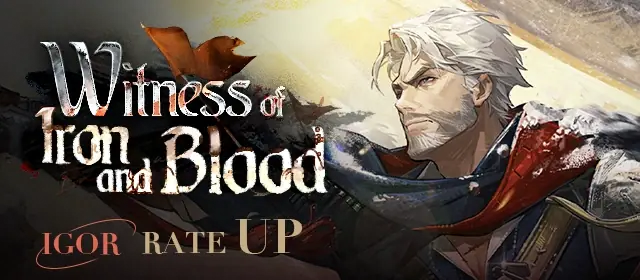
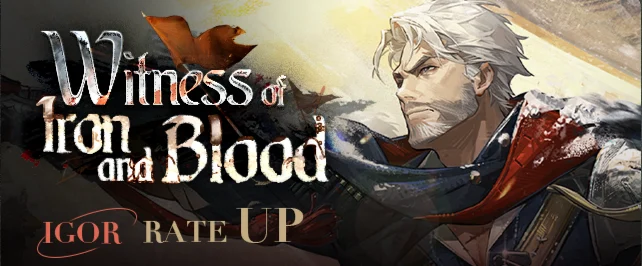
v3.8/2

diff --git a/database.js b/database.js
@@ -1,271 +1,273 @@
 const BANNERS = {
-  "The Future's Foundation": { name: "The Future's Foundation", type: "Character", rateUp6: ["Cornerstone"]},
-  "往昔应我声": { name: "Speak and the Past Will Echo", type: "Character", rateUp6: ["Everecho"]},
-  "殓骨悼词": { name: "The Mourner's Eulogy", type: "Character", rateUp6: ["Charon"]},
-  "贝壳漂流记": { name: "A Shell on the Waves", type: "Character", rateUp6: ["Fatutu"]},
-  "湖的应许": {name: "Promise of the Water", type:"Water"},
+  "The Future's Foundation": { name: "The Future's Foundation", type: "Character", rateUp6: ["Cornerstone"] },
+  "往昔应我声": { name: "Speak and the Past Will Echo", type: "Character", rateUp6: ["Everecho"] },
+  "殓骨悼词": { name: "The Mourner's Eulogy", type: "Character", rateUp6: ["Charon"] },
+  "贝壳漂流记": { name: "A Shell on the Waves", type: "Character", rateUp6: ["Fatutu"] },
+  "湖的应许": { name: "Promise of the Water", type: "Water" },
   "为什么故事集": { name: "The Book of Whys", type: "Character", rateUp6: ["Flutterpage"] },
   "现实破译法": { name: "Deciphering Reality", type: "Character", rateUp6: ["Enigma"] },
   "虹色五线谱": { name: "Playing in Rainbow Clef", type: "Character", rateUp6: ["Barcarola"] },
   "晴日决胜局": { name: "Clash 'n' Slash", type: "Character", rateUp6: ["J"] },
-  "零重力漫游": { name: "Wirewalking in Zero Gravity", type: "Character", rateUp6: ["Kiperina"]},
+  "零重力漫游": { name: "Wirewalking in Zero Gravity", type: "Character", rateUp6: ["Kiperina"] },
   "渡影归真": { name: "Conduit of the Unseen", type: "Character", rateUp6: ["Ramona"] },
   "奇异吸引子": { name: "The Strange Attractor", type: "Character", rateUp6: ["Lorentz Butterfly"] },
   "虚影的实鉴": { name: "Observation into the Mirrors", type: "Character", rateUp6: ["Kakania"] },
-  "鸿羽若有凌云志" : { name: "Soaring Aspirations", type: "Character", rateUp6: ["Cheng Heguang"] },
-  "幕间蒙太奇" : { name: "A Life in Montage", type: "Character", rateUp6: ["Noire"] },
-  "赤心如昼明" : { name: "Moonbeam Guardian", type: "Limited", rateUp6: ["Liang Yue"]},
-  "湖心追述" : { name: "From the Lake's Heart", type: "Water", rateUp6: ["Jiu Niangzi", "Lucy", "Anjo Nala", "Liang Yue"]},
-  "湖的许诺" : { name: "Promise of the Water", type: "Water"},
-  "神话咫尺之处" : { name: "The Myth at Her Fingertips", type: "Limited", rateUp6: ["Nautika"]},
-  "故事的新啼" : { name: "A Newly Hatched Chapter", type: "Limited", rateUp6: ["Rhiannon"]},
-  "石心瓦解时" : { name: "A Beating Heart Beneath the Stone", type: "Character", rateUp6: ["Sentinel"]},
-  "剥茧为名" : { name: "Beneath the Guise of Her Cocoon", type: "Character", rateUp6: ["Ms. Stranger"]},
-  "子夜独角戏" : { name: "The Midnight Flutist", type: "Character", rateUp6: ["Rubuska"]},
-  "剪春注我" : { name: "Her Heart-Cut Spring", type: "Limited", rateUp6: ["Paper Heron"]},
-  "湖的启示" : { name: "Revelation of the Water", type: "Water" },
-  "鳞与石的世纪" : { name: "Serpentine Century", type: "Character", rateUp6: ["Hissabeth"] },
-  "度朔飞琼" : { name: "The Snow of Dushuo", type: "Special" },
-  "湖的企盼" : { name: "Yearning of the Water", type: "Water" },
-  "铁与血的亲证": { name: "Witness of Iron and Blood", type: "Character", rateUp6: ["Igor"]},
-  "午夜摇篮曲" : { name: "Blue Lullaby", type: "Character", rateUp6: ["Tuesday"]},
-  "修缮往日": { name: "From the Ruin of the Past", type: "Character", rateUp6: ["Moldir"]},
-  "誓言无有烬时": { name: "The Oath Unyielding", type: "Character", rateUp6: ["Marsha"]},
-  "银色拟剧论": { name: "Analysis of Metallic Dramaturgy", type: "Collab", rateUp6: ["The Twins"], version: "3.6.5"},
-  "思维动力学":   { name: "Cognitive Dynamics", type: "Character", rateUp6: ["Ulrich"]},
-  "永恒折射角":   { name: "The Brilliance Within", type: "Character", rateUp6: ["Brume"]},
-  "仙子振翅入夜": { name: "The Fairies Shining at Night", type: "Character", rateUp6: ["Tooth Fairy"]},
-  "命运亦需捧场": { name: "On Fate's Cue", type: "Limited", rateUp6: ["Beryl"]},
-  "湖的馈赠":     { name: "Boon of the Water", type: "Water"},
-  "天真与渴盼":   { name: "Longing for Innocence", type: "Limited", rateUp6: ["Anjo Nala"]},
-  "湖的涟漪":     { name: "Ripples on the Water", type: "Water"},
-  "火花雀儿":     { name: "The Chirps of Flame", type: "Character", rateUp6: ["Spathodea"]},
-  "第一滴雨":     { name: "The First Drop of Rain", type: "Regular"},
-  "于湖中央":     { name: "Amongst the Lake", type: "Regular"}
+  "鸿羽若有凌云志": { name: "Soaring Aspirations", type: "Character", rateUp6: ["Cheng Heguang"] },
+  "幕间蒙太奇": { name: "A Life in Montage", type: "Character", rateUp6: ["Noire"] },
+  "赤心如昼明": { name: "Moonbeam Guardian", type: "Limited", rateUp6: ["Liang Yue"] },
+  "湖心追述": { name: "From the Lake's Heart", type: "Water", rateUp6: ["Jiu Niangzi", "Lucy", "Anjo Nala", "Liang Yue"] },
+  "湖的许诺": { name: "Promise of the Water", type: "Water" },
+  "神话咫尺之处": { name: "The Myth at Her Fingertips", type: "Limited", rateUp6: ["Nautika"] },
+  "故事的新啼": { name: "A Newly Hatched Chapter", type: "Limited", rateUp6: ["Rhiannon"] },
+  "石心瓦解时": { name: "A Beating Heart Beneath the Stone", type: "Character", rateUp6: ["Sentinel"] },
+  "剥茧为名": { name: "Beneath the Guise of Her Cocoon", type: "Character", rateUp6: ["Ms. Stranger"] },
+  "子夜独角戏": { name: "The Midnight Flutist", type: "Character", rateUp6: ["Rubuska"] },
+  "剪春注我": { name: "Her Heart-Cut Spring", type: "Limited", rateUp6: ["Paper Heron"] },
+  "湖的启示": { name: "Revelation of the Water", type: "Water" },
+  "鳞与石的世纪": { name: "Serpentine Century", type: "Character", rateUp6: ["Hissabeth"] },
+  "度朔飞琼": { name: "The Snow of Dushuo", type: "Special" },
+  "湖的企盼": { name: "Yearning of the Water", type: "Water" },
+  "铁与血的亲证": { name: "Witness of Iron and Blood", type: "Character", rateUp6: ["Igor"] },
+  "午夜摇篮曲": { name: "Blue Lullaby", type: "Character", rateUp6: ["Tuesday"] },
+  "修缮往日": { name: "From the Ruin of the Past", type: "Character", rateUp6: ["Moldir"] },
+  "誓言无有烬时": { name: "The Oath Unyielding", type: "Character", rateUp6: ["Marsha"] },
+  "银色拟剧论": { name: "Analysis of Metallic Dramaturgy", type: "Collab", rateUp6: ["The Twins"], version: "3.6.5" },
+  "思维动力学": { name: "Cognitive Dynamics", type: "Character", rateUp6: ["Ulrich"] },
+  "永恒折射角": { name: "The Brilliance Within", type: "Character", rateUp6: ["Brume"] },
+  "仙子振翅入夜": { name: "The Fairies Shining at Night", type: "Character", rateUp6: ["Tooth Fairy"] },
+  "命运亦需捧场": { name: "On Fate's Cue", type: "Limited", rateUp6: ["Beryl"] },
+  "湖的馈赠": { name: "Boon of the Water", type: "Water" },
+  "天真与渴盼": { name: "Longing for Innocence", type: "Limited", rateUp6: ["Anjo Nala"] },
+  "湖的涟漪": { name: "Ripples on the Water", type: "Water" },
+  "火花雀儿": { name: "The Chirps of Flame", type: "Character", rateUp6: ["Spathodea"] },
+  "第一滴雨": { name: "The First Drop of Rain", type: "Regular" },
+  "于湖中央": { name: "Amongst the Lake", type: "Regular" }
 };
 
 const ACTIVE_BANNERS = [
-    {
+  {
+    key:      "铁与血的亲证",
+    startUTC: "2026-10-06T10:00:00Z",
+    endUTC:   "2026-10-20T09:59:00Z",
+    image:    "static/banners/Witness_of_Iron_and_Blood.webp",
+    rateUp:   ["Igor", "Mr. Duncan", "Click"]
+  },
+  {
     key:      "往昔应我声",
     startUTC: "2026-09-24T10:00:00Z",
     endUTC:   "2026-10-15T09:59:00Z",
     image:    "static/banners/Speak_and_the_Past_Will_Echo.webp",
-    rateUp:  ["Everecho", "Bkornblume", "Dikke"]
+    rateUp:   ["Everecho", "Bkornblume", "Dikke"]
   },
-    {
+  {
     key:      "渡影归真",
     startUTC: "2026-09-22T10:00:00Z",
     endUTC:   "2026-10-06T09:59:00Z",
     image:    "static/banners/Conduit_of_the_Unseen.webp",
-    rateUp:  ["Ramona", "Tennant", "Baby Blue"]
+    rateUp:   ["Ramona", "Tennant", "Baby Blue"]
   },
-    {
+  {
     key:      "湖的涟漪",
     startUTC: "2026-09-24T10:00:00Z",
     endUTC:   "2026-11-05T09:59:00Z",
     image:    "static/banners/Ripples_on_the_Water_3.8.webp",
-    rateUp:  ["Hissabeth", "J", "Regulus", "Mercuria", "Ms. NewBabel", "A Knight"]
+    rateUp:   ["Hissabeth", "J", "Regulus", "Mercuria", "Ms. NewBabel", "A Knight"]
   },
-    {
+  {
     key:      "The Future's Foundation",
     startUTC: "2026-10-15T10:00:00Z",
     endUTC:   "2026-11-05T09:59:00Z",
-    rateUp:  ["Cornerstone", "Diggers", "Desert Flannel"]
+    image:    "static/banners/The_Futures_Foundation.webp",
+    rateUp:   ["Cornerstone", "Diggers", "Desert Flannel"]
   },
-    {
+  {
     key:      "湖的企盼",
     startUTC: "2026-10-01T05:00:00Z",
     endUTC:   "2026-10-15T04:59:00Z",
     image:    "static/banners/Yearning_of_the_Water_3.8.webp",
-    rateUp:  ["Lorentz Butterfly", "Enigma"]
+    rateUp:   ["Lorentz Butterfly", "Enigma"]
   },
   {
     key:      "殓骨悼词",
     startUTC: "2026-09-08T10:00:00Z",
     endUTC:   "2026-09-22T09:59:00Z",
     image:    "static/banners/The_Mourners_Eulogy.webp",
-    rateUp:  ["Charon", "Satsuki", "Yenisei"]
+    rateUp:   ["Charon", "Satsuki", "Yenisei"]
   },
   {
     key:      "贝壳漂流记",
     startUTC: "2026-08-25T10:00:00Z",
     endUTC:   "2026-09-08T09:59:00Z",
     image:    "static/banners/A_Shell_on_the_Waves.webp",
-    rateUp:  ["Fatutu", "Necrologist", "Bkornblume"]
+    rateUp:   ["Fatutu", "Necrologist", "Bkornblume"]
   },
   {
     key:      "湖的涟漪",
     startUTC: "2026-08-13T10:00:00Z",
     endUTC:   "2026-09-24T09:59:00Z",
     image:    "static/banners/Ripples_on_the_Water_3.7.webp",
-    rateUp:  ["Regulus", "Semmelweis", "Recoleta", "Melania", "Medicine Pocket", "Mercuria", "Spathodea"]
+    rateUp:   ["Regulus", "Semmelweis", "Recoleta", "Melania", "Medicine Pocket", "Mercuria", "Spathodea"]
   },
   {
     key:      "故事的新啼",
     startUTC: "2026-08-13T10:00:00Z",
     endUTC:   "2026-09-24T09:59:00Z",
     image:    "static/banners/A_Newly_Hatched_Chapter.webp",
-    rateUp:  ["Rhiannon", "Ulu", "Avgust"]
+    rateUp:   ["Rhiannon", "Ulu", "Avgust"]
   },
   {
     key:      "石心瓦解时",
     startUTC: "2026-08-11T10:00:00Z",
     endUTC:   "2026-08-25T09:59:00Z",
     image:    "static/banners/A_Beating_Heart_Beneath_the_Stone.webp",
-    rateUp:  ["Sentinel", "Balloon Party", "Diggers"]
+    rateUp:   ["Sentinel", "Balloon Party", "Diggers"]
   },
   {
     key:      "神话咫尺之处",
     startUTC: "2026-08-14T10:00:00Z",
     endUTC:   "2026-09-03T09:59:00Z",
     image:    "static/banners/The_Myth_at_Her_Fingertips.webp",
-    rateUp:  ["Nautika", "Blonney", "Dikke"]
+    rateUp:   ["Nautika", "Blonney", "Dikke"]
   },
   {
     key:      "湖的应许",
     startUTC: "2026-08-22T10:00:00Z",
     endUTC:   "2026-09-24T09:59:00Z",
-    image: "static/banners/Promise_of_the_Water_3.7.webp",
-    rateUp:  ["Druvis III", "Lilya", "A Knight", "Sotheby", "Regulus", "Centurion", "An-an Lee", "Medicine Pocket",
-              "Eternity", "Ms. NewBabel", "Voyager", "Melania", "Pickles", "Tooth Fairy", "Jessica", "Kaalaa Baunaa",
-              "Shamane", "37", "6", "Spathodea", "Ezra", "Getian", "Semmelweis", "Isolde", "Marcus", "Vila",
-              "Windsong", "Kakania", "J", "Mercuria", "Tuesday", "Argus", "Lopera", "Willow", "Flutterpage",
-              "Barcarola", "Fatutu", "Noire", "Ulrich", "Recoleta", "Aleph", "Hissabeth", "Kiperina", "Moldir",
-              "Sentinel", "Charon", "Rubuska", "Corvus", "Brume", "Marsha", "Igor", "Cheng Heguang", "Coppelia",
-              "Lorentz Butterfly", "Ramona"]
+    image:    "static/banners/Promise_of_the_Water_3.7.webp",
+    rateUp:   ["Druvis III", "Lilya", "A Knight", "Sotheby", "Regulus", "Centurion", "An-an Lee", "Medicine Pocket", "Eternity", "Ms. NewBabel", "Voyager", "Melania", "Pickles", "Tooth Fairy", "Jessica", "Kaalaa Baunaa", "Shamane", "37", "6", "Spathodea", "Ezra", "Getian", "Semmelweis", "Isolde", "Marcus", "Vila", "Windsong", "Kakania", "J", "Mercuria", "Tuesday", "Argus", "Lopera", "Willow", "Flutterpage", "Barcarola", "Fatutu", "Noire", "Ulrich", "Recoleta", "Aleph", "Hissabeth", "Kiperina", "Moldir", "Sentinel", "Charon", "Rubuska", "Corvus", "Brume", "Marsha", "Igor", "Cheng Heguang", "Coppelia", "Lorentz Butterfly", "Ramona"]
   },
   {
     key:      "湖心追述",
     startUTC: "2026-09-01T10:00:00Z",
     endUTC:   "2026-09-24T09:59:00Z",
-    image: "static/banners/From_the_Lakes_Heart_3.7.webp",
-    rateUp:  ["Jiu Niangzi", "Lucy", "Anjo Nala", "Liang Yue"]
+    image:    "static/banners/From_the_Lakes_Heart_3.7.webp",
+    rateUp:   ["Jiu Niangzi", "Lucy", "Anjo Nala", "Liang Yue"]
   },
   {
     key:      "剥茧为名",
     startUTC: "2026-09-03T10:00:00Z",
     endUTC:   "2026-09-24T09:59:00Z",
-	image: "static/banners/Beneath_the_Guise_of_Her_Cocoon.webp",
-    rateUp:  ["Ms. Stranger", "X", "Barbara"]
+    image:    "static/banners/Beneath_the_Guise_of_Her_Cocoon.webp",
+    rateUp:   ["Ms. Stranger", "X", "Barbara"]
   },
   {
     key:      "为什么故事集",
     startUTC: "2026-07-28T10:00:00Z",
     endUTC:   "2026-08-11T09:59:00Z",
     image:    "static/banners/The_Book_of_Whys.webp",
-    rateUp:  ["Flutterpage", "Necrologist", "Name Day"]
+    rateUp:   ["Flutterpage", "Necrologist", "Name Day"]
   },
   {
     key:      "湖的涟漪",
     startUTC: "2026-07-23T10:00:00Z",
     endUTC:   "2026-08-13T09:59:00Z",
     image:    "static/banners/Ripples_on_the_Water_Atomic.webp",
-    rateUp:  ["Windsong", "Lopera", "Regulus", "An-an Lee", "Tooth Fairy", "Isolde"]
+    rateUp:   ["Windsong", "Lopera", "Regulus", "An-an Lee", "Tooth Fairy", "Isolde"]
   },
   {
     key:      "银色拟剧论",
     startUTC: "2026-07-23T10:00:00Z",
     endUTC:   "2026-08-13T09:59:00Z",
     image:    "static/banners/Analysis_of_Metallic_Dramaturgy.webp",
-    rateUp:  ["The Twins", "Satsuki", "Brimley"]
+    rateUp:   ["The Twins", "Satsuki", "Brimley"]
   },
   {
     key:      "湖的企盼",
     startUTC: "2026-08-01T05:00:00Z",
     endUTC:   "2026-08-14T09:59:00Z",
-    rateUp:  ["Igor", "Cheng Heguang"]
+    rateUp:   ["Igor", "Cheng Heguang"]
   },
   {
     key:      "誓言无有烬时",
     startUTC: "2026-07-14T10:00:00Z",
     endUTC:   "2026-07-28T09:59:00Z",
     image:    "static/banners/The_Oath_Unyielding.webp",
-    rateUp:  ["Marsha", "Avgust", "Horropedia"]
+    rateUp:   ["Marsha", "Avgust", "Horropedia"]
   },
   {
     key:      "现实破译法",
     startUTC: "2026-07-02T10:00:00Z",
     endUTC:   "2026-07-23T09:59:00Z",
     image:    "static/banners/Deciphering_Reality.webp",
-    rateUp:  ["Enigma", "Sweetheart", "Charlie"]
+    rateUp:   ["Enigma", "Sweetheart", "Charlie"]
   },
   {
     key:      "湖的涟漪",
     startUTC: "2026-07-02T10:00:00Z",
     endUTC:   "2026-07-23T09:59:00Z",
     image:    "static/banners/Ripples_on_the_Water_3.6.webp",
-    rateUp:  ["Recoleta", "Melania", "Tooth Fairy", "Willow", "Tuesday", "Isolde"]
+    rateUp:   ["Recoleta", "Melania", "Tooth Fairy", "Willow", "Tuesday", "Isolde"]
   },
   {
     key:      "虹色五线谱",
     startUTC: "2026-06-30T10:00:00Z",
     endUTC:   "2026-07-14T09:59:00Z",
     image:    "static/banners/Playing_in_Rainbow_Clef.webp",
-    rateUp:  ["Barcarola", "Bkornblume", "Charlie"]
+    rateUp:   ["Barcarola", "Bkornblume", "Charlie"]
   },
   {
     key:      "晴日决胜局",
     startUTC: "2026-06-16T10:00:00Z",
     endUTC:   "2026-06-30T09:59:00Z",
     image:    "static/banners/Clash_n_Slash.webp",
-    rateUp:  ["J", "Sweetheart", "Click"]
+    rateUp:   ["J", "Sweetheart", "Click"]
   },
   {
     key:      "零重力漫游",
     startUTC: "2026-06-02T10:00:00Z",
     endUTC:   "2026-06-16T09:59:00Z",
     image:    "static/banners/Wirewalking_in_Zero_Gravity.webp",
-    rateUp:  ["Kiperina", "Dikke", "Desert Flannel"]
+    rateUp:   ["Kiperina", "Dikke", "Desert Flannel"]
   },
   {
     key:      "湖的涟漪",
     startUTC: "2026-05-28T10:00:00Z",
     endUTC:   "2026-07-02T09:59:00Z",
     image:    "static/banners/Ripples_on_the_Water_3.5.webp",
-    rateUp:  ["Spathodea", "Tuesday", "Isolde", "Willow", "Sotheby", "Tooth Fairy"]
+    rateUp:   ["Spathodea", "Tuesday", "Isolde", "Willow", "Sotheby", "Tooth Fairy"]
   },
   {
     key:      "湖的企盼",
     startUTC: "2026-06-01T05:00:00Z",
     endUTC:   "2026-06-15T04:59:00Z",
     image:    "static/banners/Yearning_of_the_Water_3.5.webp",
-    rateUp:  ["Corvus", "Brume"]
+    rateUp:   ["Corvus", "Brume"]
   },
   {
     key:      "渡影归真",
     startUTC: "2026-06-18T10:00:00Z",
     endUTC:   "2026-07-02T09:59:00Z",
     image:    "static/banners/Conduit_of_the_Unseen.webp",
-    rateUp: ["Ramona", "Loggerhead", "Kanjira"]
+    rateUp:   ["Ramona", "Loggerhead", "Kanjira"]
   },
   {
     key:      "奇异吸引子",
     startUTC: "2026-05-28T10:00:00Z",
     endUTC:   "2026-06-18T09:59:00Z",
     image:    "static/banners/The_Strange_Attractor.webp",
-    rateUp: ["Lorentz Butterfly", "X", "Barbara"]
+    rateUp:   ["Lorentz Butterfly", "X", "Barbara"]
   },
   {
-    key:     "虚影的实鉴",
+    key:      "虚影的实鉴",
     startUTC: "2026-05-19T10:00:00Z",
     endUTC:   "2026-06-02T09:59:00Z",
     image:    "static/banners/Observation_into_the_Mirrors.webp",
-    rateUp: ["Kakania", "Mr. Duncan", "Yenisei"]
+    rateUp:   ["Kakania", "Mr. Duncan", "Yenisei"]
   },
 ];
 
 const CHARACTERS = {
-  3149: { name: "The Twins", rarity: 6},
-  3147: { name: "Ms. Stranger", rarity: 6},
-  3146: { name: "Rhiannon", rarity: 6},
-  3145: { name: "Everecho", rarity: 6},
-  3144: { name: "Coppelia", rarity: 6},
-  3143: { name: "Enigma", rarity: 6},
-  3142: { name: "Ramona", rarity: 6},
+  3149: { name: "The Twins", rarity: 6 },
+  3147: { name: "Ms. Stranger", rarity: 6 },
+  3146: { name: "Rhiannon", rarity: 6 },
+  3145: { name: "Everecho", rarity: 6 },
+  3144: { name: "Coppelia", rarity: 6 },
+  3143: { name: "Enigma", rarity: 6 },
+  3142: { name: "Ramona", rarity: 6 },
   3141: { name: "Paper Heron", rarity: 6 },
-  3140: { name: "Cornerstone", rarity: 6},
-  3139: { name: "Lorentz Butterfly", rarity: 6},
-  3137: { name: "Cheng Heguang", rarity: 6},
+  3140: { name: "Cornerstone", rarity: 6 },
+  3139: { name: "Lorentz Butterfly", rarity: 6 },
+  3137: { name: "Cheng Heguang", rarity: 6 },
   3135: { name: "Brume", rarity: 6 },
   3134: { name: "Beryl", rarity: 6 },
   3132: { name: "Corvus", rarity: 6 },
@@ -357,7 +359,7 @@ const CHARACTERS = {
   3011: { name: "Sweetheart", rarity: 5 },
   3010: { name: "X", rarity: 5 },
 
-  3138: { name: "Reed", rarity: 4},
+  3138: { name: "Reed", rarity: 4 },
   3136: { name: "Lady by the Lake", rarity: 4 },
   3101: { name: "White Rum", rarity: 4 },
   3058: { name: "Erick", rarity: 4 },
